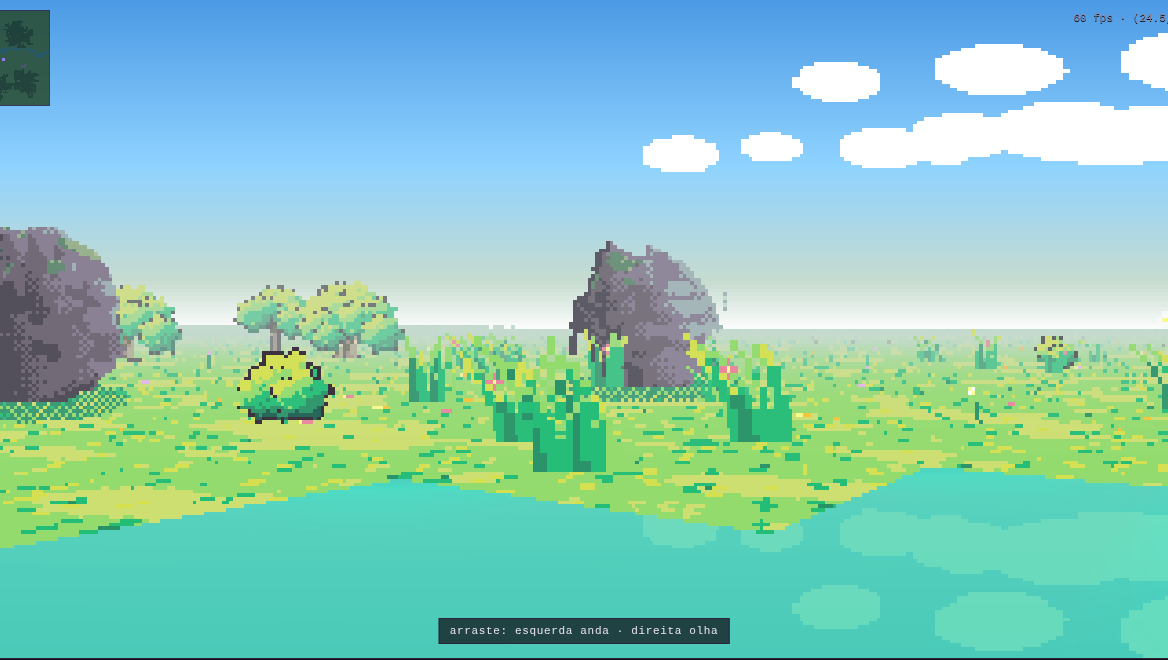
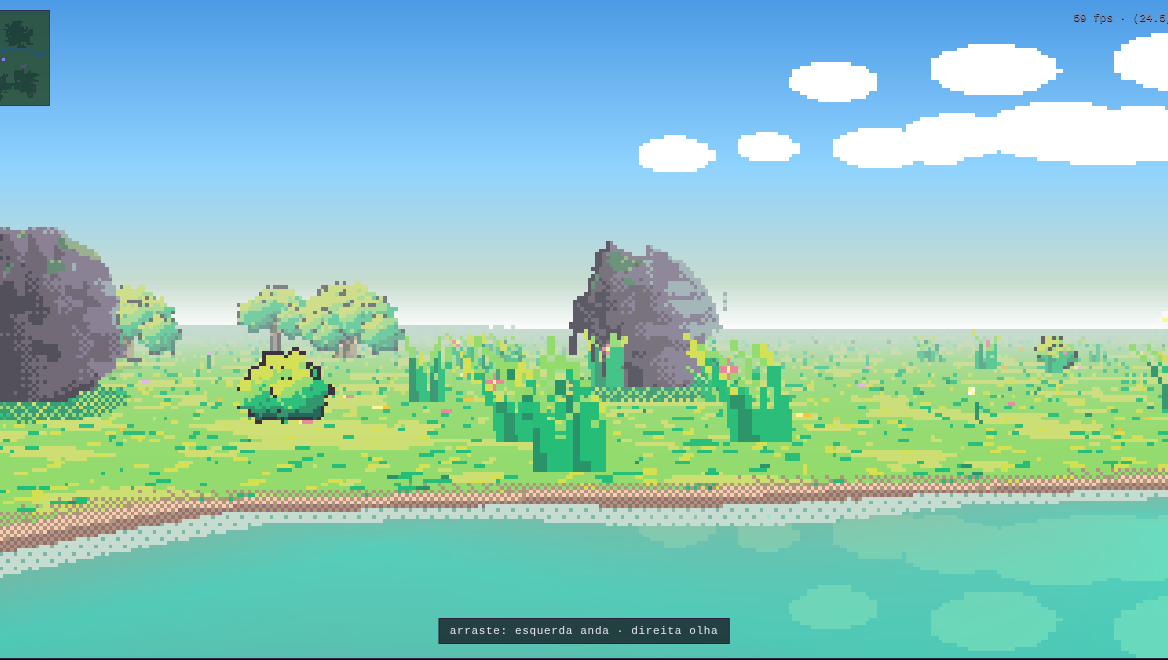
protótipo v5.1: linha d'água contínua — margem orgânica, sem escadinha de grid
A borda água/grama seguia o tile (escada retangular). Agora o campo de
distância é ASSINADO (positivo na água, negativo na terra) e a decisão
água-vs-terra por pixel é o contorno zero da amostra bilinear — uma
curva suave. A onda desloca o contorno ±0.1 tile: a água LAMBE a praia.
Praia em 3 faixas: areia molhada (escura) colada na linha d'água, areia
clara, franja ditherada na grama. Colisão continua por tile (diferença
máx. meia-telha vira 'pé na água rasa', charmoso). 59-60fps.

Claude-Session: https://claude.ai/code/session_011RMb7NFMQktSfEYCn3A41e

diff --git a/prototipos/fps/nos-fps.html b/prototipos/fps/nos-fps.html
@@ -798,6 +798,11 @@ const shoreField = new Float32Array(world.w * world.h).fill(255);
       if (shoreField[ny * world.w + nx] > d + 1) { shoreField[ny * world.w + nx] = d + 1; q.push(nx, ny); }
     }
   }
+  /* ASSINA o campo: positivo dentro da água, negativo na terra — o contorno
+     zero da amostra bilinear é uma CURVA suave, não a escadinha do grid */
+  for (let y = 0; y < world.h; y++) for (let x = 0; x < world.w; x++) {
+    if (at(x, y) !== 'w') shoreField[y * world.w + x] = -shoreField[y * world.w + x];
+  }
 }
 /* amostra bilinear do campo (suave por pixel) */
 function shoreAt(fx, fy) {
@@ -970,14 +975,18 @@ function render(now) {
       const t = world.at(tx, ty);
       /* sombra de nuvem varrendo o chão (rola com o tempo) */
       const shadowed = CSHAD[(((fy * 2 + 5) & 127) * 128 + ((fx * 2 + cloudShadowT) & 127)) | 0] === 1;
+      /* linha d'água CONTÍNUA: contorno zero do campo assinado, lambendo a
+         praia com a onda (avança e recua ~0.1 tile) */
+      const lapWv = (WAVE_A[((fy * 5) & 63) * 64 + ((fx * 5 + waveT) & 63)]) / 255 - 0.5;
+      const sSigned = shoreAt(fx, fy) + lapWv * 0.16;
       let c;
-      if (t === 'w') {
+      if (sSigned > 0) {
         /* ÁGUA CRISTALINA (shader por pixel, tudo lookup):
            raso -> fundo de areia visível tingido de ciano; fundo -> teal
            profundo; reflexo REAL do céu (espelho das linhas já pintadas,
            nuvens/montanha inclusas) crescendo com o ângulo rasante;
            ondulação anima reflexo, cáustica e brilhos de crista. */
-        const sd = Math.min(1, shoreAt(fx, fy) / 1.9);           // 0 margem .. 1 fundo
+        const sd = Math.min(1, sSigned / 1.9);           // 0 margem .. 1 fundo
         const wv = (WAVE_A[((fy * 9) & 63) * 64 + ((fx * 9 + waveT) & 63)] +
                     WAVE_B[((fy * 6 + waveT) & 63) * 64 + ((fx * 6) & 63)]) / 510 - 0.5;
         // base: areia -> ciano raso -> teal fundo (cáustica clareia o raso)
@@ -1007,11 +1016,12 @@ function render(now) {
         const h = ((tx * 73856093) ^ (ty * 19349663)) >>> 0;
         const g = GRASS_TILES[h % GRASS_TILES.length];
         c = g.data[((((fy - ty) * GTEX) | 0) * GTEX + (((fx - tx) * GTEX) | 0))];
-        // praia: faixa de areia na beira da água
-        const ld = shoreAt(fx, fy);
-        if (ld < 0.38 && (t === 'm')) {
-          if (ld < 0.16) c = ((x + y) & 1) === 0 ? 0xff7a94ab : 0xffb0cbfd; // faixa sólida de areia
-          else if ((BAYER[y & 3][x & 3] / 16) < (1 - (ld - 0.16) / 0.22) * 0.7) c = 0xff7a94ab; // franja curta
+        // praia: areia molhada colada na linha d'água, franja seca depois
+        const ld = -sSigned;
+        if (ld < 0.42) {
+          if (ld < 0.10) c = ((x + y) & 1) === 0 ? 0xff6c6c96 : 0xff7a94ab;      // areia molhada (escura)
+          else if (ld < 0.22) c = ((x + y) & 1) === 0 ? 0xff7a94ab : 0xffb0cbfd; // areia clara
+          else if ((BAYER[y & 3][x & 3] / 16) < (1 - (ld - 0.22) / 0.20) * 0.6) c = 0xff7a94ab; // franja na grama
         }
       }
       if (shadowed) c = darkenU32(c, 0.86);
